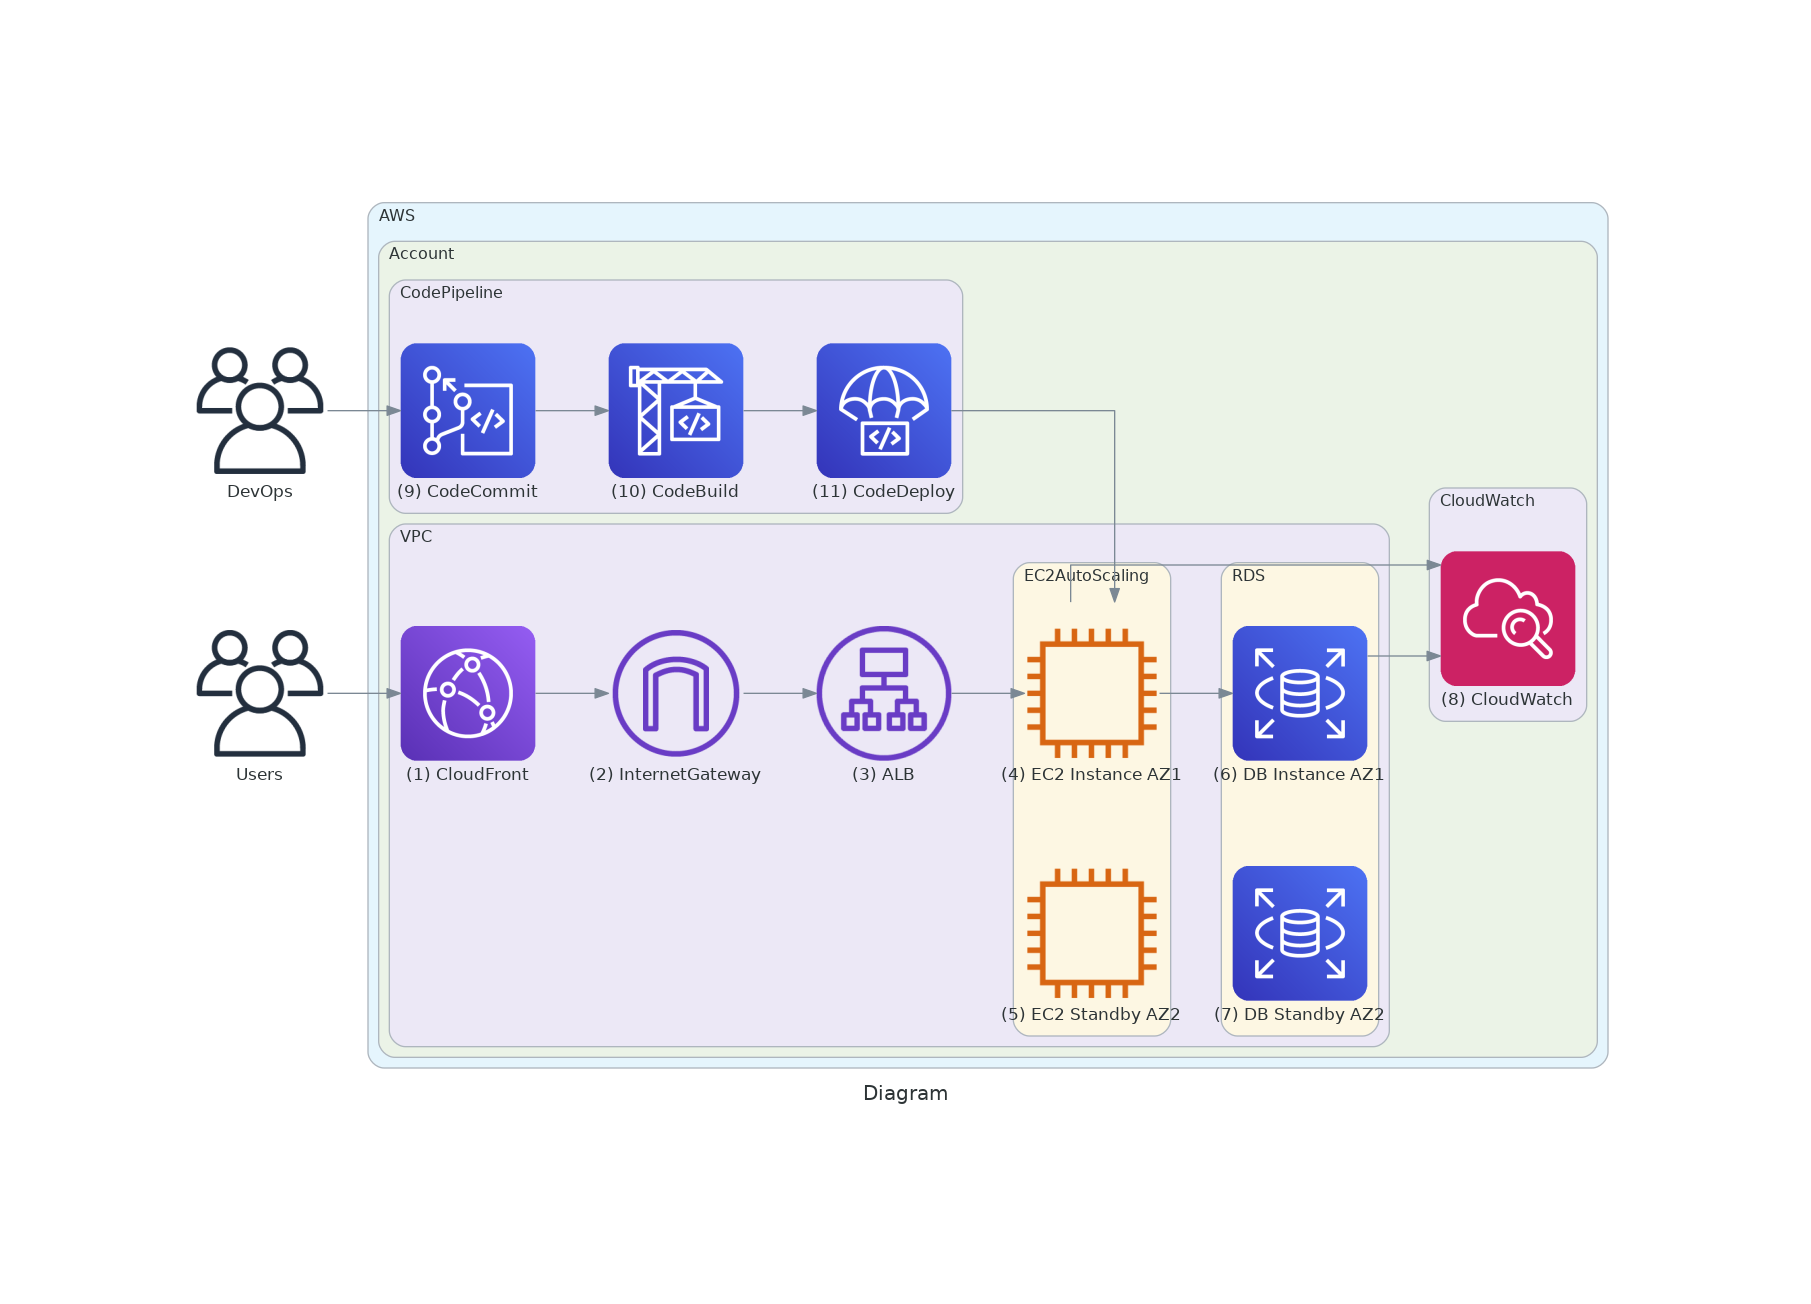
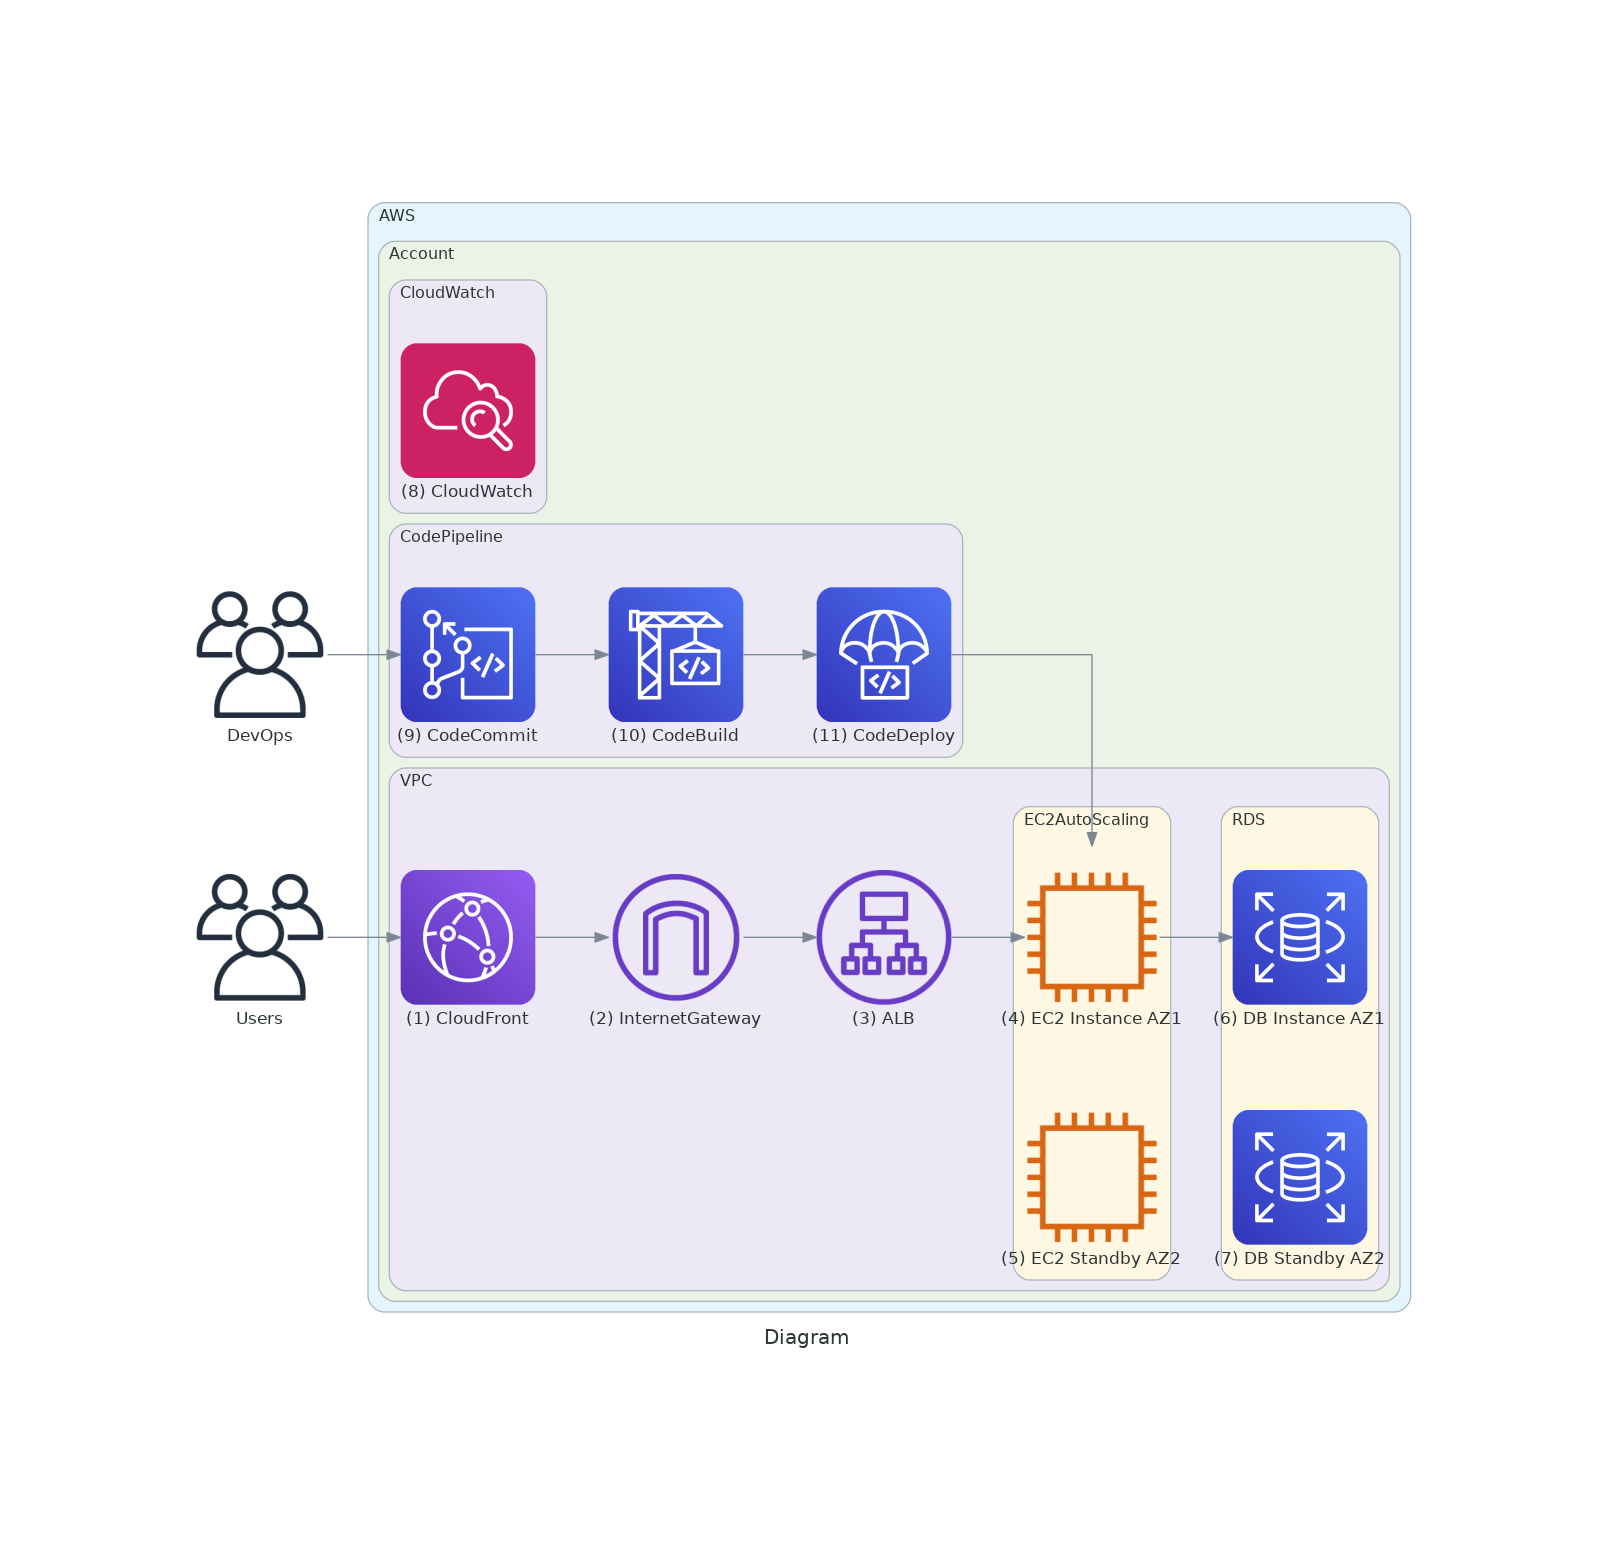
commit

Changed region(s): [[0.093, 0.1227, 0.8989, 0.8896]]

diff --git a/diagram.py b/diagram.py
@@ -33,8 +33,8 @@ with Diagram("Diagram", direction="LR", show=False):
             with Cluster("CloudWatch"):
                 Cloudwatch = Cloudwatch("(8) CloudWatch")
 
-                EC2Instance[0] >> Cloudwatch
-                RDS[0] >> Cloudwatch
+#                EC2Instance[0] >> Cloudwatch
+#                RDS[0] >> Cloudwatch
 
             with Cluster("CodePipeline"):
                 Codecommit = Codecommit("(9) CodeCommit")
